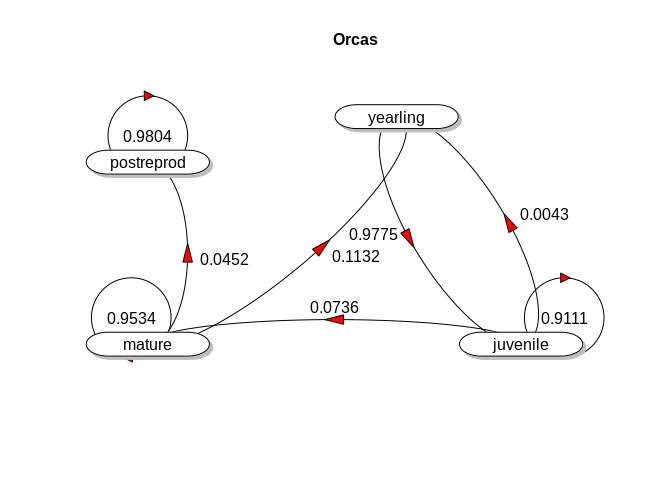
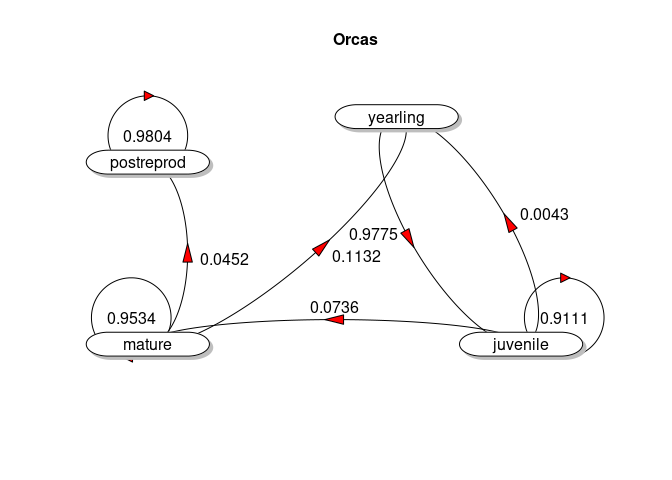
pander

diff --git a/stages.md b/stages.md
@@ -13,8 +13,8 @@ library(pander)
 
 Trabajamos con poblaciones en las que los individuos presentan
 características *a priori* contrastadas desde el punto de vista de la
-dinámica de la población, asociadas a su edad o estado fisiológico, ya
-sea por contribuir de forma diferencial a la reproducción o por
+dinámica de la población, asociadas a su edad o estado fisiológico; ya
+sea porque contribuyen de forma diferencial a la reproducción, o por
 presentar diferentes supervivencias. En líneas generales los modelos de
 poblaciones estructuradas los podemos representar mediante ciclos de
 vida:
@@ -22,8 +22,8 @@ vida:
 ![](stages_files/figure-markdown_github/life_cycle_stage.png)
 
 Ese esquema genérico muestra una población modelada a partir de 4 tipos
-de individuos agrupados en clases de edad o estadios. Las
-flechas indican las transiciones posibles entre clases o estadios. A ese
+de individuos, agrupados en clases de edad o estadios. Las flechas
+indican transiciones posibles entre dichas clases o estadios. A ese
 ciclo de vida le correspondería la visión numérica aportada por las
 matrices de transición:
 
@@ -31,12 +31,12 @@ matrices de transición:
 
 La primera fila de las matrices de transición, ya sean de edades (dcha.)
 o de estadios (izda.), muestra el *esquema de fecundidad*, expresada
-como promedio de individuos contribuidos al momento *t+1*, producidos
-por cada individuo presente en el momento *t*. El resto de valores
-distintos de cero en la matriz representan probabilidades de
-supervivencia entre *t* y *t+1*, ya sea *permaneciendo* en el mismo
-estadio, e.g. *P<sub>2</sub>* en la matriz de estadios, o *creciendo* al
-siguiente, e.g. *G<sub>3</sub>* en estadios o *S<sub>2</sub>* en edades.
+como promedio de individuos contribuidos al tiempo *t+1*, producidos por
+cada individuo presente en el tiempo *t*. El resto de valores distintos
+de cero en la matriz representan probabilidades de supervivencia entre
+*t* y *t+1*, ya sea *permaneciendo* en el mismo estadio,
+e.g. *P<sub>2</sub>* en la matriz de estadios, o *creciendo* al
+siguiente, e.g. *G<sub>3</sub>* en estadios o *S<sub>2</sub>* en edades.
 
 ### Matriz de proyección (estadios)
 
@@ -45,18 +45,15 @@ una población de orcas *Orcinus orca*. Los datos están incluidos en la
 librería `popbio` (Caswell 2001)<sup>1,2</sup>.
 
 El código a continuación carga en memoria los datos **whale**, y
-visualiza a continuación la matriz. la visualización incluye un pequeño
-truco estético: la función `pander()` rodeando al conjunto de datos
-devuelve una matriz con un formato más enriquecido útil especialmente
-para la producción de informes en pdf o html; es opcional:
+visualiza a continuación la matriz:
 
 ``` r
 data (whale)
-pander (whale)
+pander(whale)
 ```
 
-|                | yearling | juvenile | mature | postreprod |
-| :------------: | :------: | :------: | :----: | :--------: |
+|                | yearling | juvenile | mature | postreprod |
+|:--------------:|:--------:|:--------:|:------:|:----------:|
 |  **yearling**  |    0     |  0.0043  | 0.1132 |     0      |
 |  **juvenile**  |  0.9775  |  0.9111  |   0    |     0      |
 |   **mature**   |    0     |  0.0736  | 0.9534 |     0      |
@@ -75,7 +72,7 @@ haber alcanzado la menopausia. Algo más sorprendente será la pequeña
 proporción de individuos a priori juveniles que sí contribuyen; es el
 valor contenido en la celda \[1, 2\]. Los valores de las filas 2, 3 y 4
 representan probabilidades de supervivencia permaneciendo en el mismo
-estadio, e.g. `whale[2,2]`, o pasando al siguiente `whale[3,2]`. En
+estadio, e.g. `whale[2,2]`, o pasando al siguiente `whale[3,2]`. En
 general, las supervivencias son muy altas y la fecundidad baja, como
 corresponde a un predador apical.
 
@@ -92,11 +89,12 @@ transición.
 
 La función `plotmat()` tiene una aspecto algo intimidante al admitir
 muchos argumentos que modifican la estética del ciclo resultante; no
-todos son necesarios. El comando más simple `plotmat(whale)` pinta una
-versión muy mejorable del ciclo de las orcas, en la que algunos valores
-quedan superpuestos, y la disposición de los estadios no es buena. Por
-eso usamos el argumento `pos=` dentro de `plotmat()`para definir la
-posición de los estadios en un espacio XY<sup>4</sup> entre 0 y 1:
+todos son necesarios. El comando más simple `plotmat(whale)`, sin otros
+parámetros, pinta una versión muy mejorable del ciclo de las orcas:
+algunos valores quedan superpuestos, y la disposición de los estadios no
+es buena. Por eso usamos el argumento `pos=` dentro de `plotmat()` para
+definir la posición de los estadios en un espacio XY<sup>4</sup> entre 0
+y 1. Definimos y guardamos esas coordenadas previamente en **posit**:
 
 ``` r
 posit <- cbind (c(0.6, 0.9, 0, 0), c(1, 0, 0, 0.8))
@@ -124,53 +122,39 @@ Una vez comprendida la estructura del modelo, extraemos la información
 numérica contenida en la matriz de transición; es decir, aquella
 dependiente solo de la combinación de valores de supervivencia y
 fecundidad. La función que extrae buena parte de esa información
-determinista del modelo es `eigen.analysis()`. Como en el caso anterior,
-`pander()` es una mera opción estética. Los parámetros están explicados
-a continuación de la salida:
+determinista del modelo es `eigen.analysis()`:
 
 ``` r
-pander(eigen.analysis (whale))
+eigen.analysis (whale)
 ```
 
-  - **lambda1**: *1.025*
-
-  - **stable.stage**:
-    
-    | yearling | juvenile | mature | postreprod |
-    | :------: | :------: | :----: | :--------: |
-    | 0.03697  |  0.3161  | 0.3229 |   0.324    |
-    
-
-  - **sensitivities**:
-    
-    |                | yearling  | juvenile  |  mature   | postreprod |
-    | :------------: | :-------: | :-------: | :-------: | :--------: |
-    |  **yearling**  |  0.04221  |  0.3608   |  0.3686   |   0.3699   |
-    |  **juvenile**  |  0.04428  |  0.3785   |  0.3867   |   0.3881   |
-    |   **mature**   |  0.06632  |   0.567   |  0.5793   |   0.5813   |
-    | **postreprod** | 2.533e-17 | 2.166e-16 | 2.213e-16 |  2.22e-16  |
-    
-
-  - **elasticities**:
-    
-    |                | yearling | juvenile |  mature   | postreprod |
-    | :------------: | :------: | :------: | :-------: | :--------: |
-    |  **yearling**  |    0     | 0.001513 |  0.0407   |     0      |
-    |  **juvenile**  | 0.04221  |  0.3363  |     0     |     0      |
-    |   **mature**   |    0     |  0.0407  |  0.5386   |     0      |
-    | **postreprod** |    0     |    0     | 9.753e-18 | 2.123e-16  |
-    
-
-  - **repro.value**:
-    
-    | yearling | juvenile | mature | postreprod |
-    | :------: | :------: | :----: | :--------: |
-    |    1     |  1.049   | 1.571  | 6.002e-16  |
-    
-
-  - **damping.ratio**: *1.046*
-
-<!-- end of list -->
+    ## $lambda1
+    ## [1] 1.025441
+    ## 
+    ## $stable.stage
+    ##   yearling   juvenile     mature postreprod 
+    ## 0.03697187 0.31607121 0.32290968 0.32404724 
+    ## 
+    ## $sensitivities
+    ##                yearling     juvenile       mature   postreprod
+    ## yearling   4.220825e-02 3.608369e-01 3.686439e-01 3.699426e-01
+    ## juvenile   4.427835e-02 3.785341e-01 3.867240e-01 3.880864e-01
+    ## mature     6.632269e-02 5.669904e-01 5.792577e-01 5.812983e-01
+    ## postreprod 2.533397e-17 2.165792e-16 2.212651e-16 2.220446e-16
+    ## 
+    ## $elasticities
+    ##              yearling    juvenile       mature   postreprod
+    ## yearling   0.00000000 0.001513103 4.069515e-02 0.000000e+00
+    ## juvenile   0.04220825 0.336325827 0.000000e+00 0.000000e+00
+    ## mature     0.00000000 0.040695151 5.385625e-01 0.000000e+00
+    ## postreprod 0.00000000 0.000000000 9.753053e-18 2.122916e-16
+    ## 
+    ## $repro.value
+    ##     yearling     juvenile       mature   postreprod 
+    ## 1.000000e+00 1.049045e+00 1.571320e+00 6.002137e-16 
+    ## 
+    ## $damping.ratio
+    ## [1] 1.04594
 
 **lambda1** muestra el valor de la tasa de crecimiento determinista. En
 matemáticas corresponde con el *valor propio* de la matriz, *eigenvalue*
@@ -213,18 +197,18 @@ Para llevar a cabo dicha proyección necesitamos saber o simular cuántos
 individuos hay en cada estadio en t<sub>0</sub>.
 
 El código a continuación define y almacena ese N<sub>0</sub> como
-**n0\_whale\_1**, con 10 individuos en cada uno de los 4 estadios. A
+**n0_whale_1**, con 10 individuos en cada uno de los 4 estadios. A
 continuación `pop.projection()` proyecta ese N<sub>0</sub> 50 intervalos
 de tiempo (N<sub>50</sub>) con los parámetros de la matriz de transición
-o proyección `whale`. Almacena los resultados en **whale\_nt\_1**:
+o proyección `whale`. Almacena los resultados en **whale_nt_1**:
 
 ``` r
 n0_whale_1 <- c(10,10,10,10)
 whale_nt_1 <- pop.projection (whale, n0_whale_1, 50)
 ```
 
-`stage.vector.plot` usa los resultados de **whale\_nt\_1** para dibujar
-el cambio de las proporciones de los estadios entre t<sub>0</sub> y
+`stage.vector.plot` usa los resultados de **whale_nt_1** para dibujar el
+cambio de las proporciones de los estadios entre t<sub>0</sub> y
 t<sub>50</sub>:
 
 ``` r
@@ -251,7 +235,7 @@ stage.vector.plot (whale_nt_2$stage.vectors, ylim = c(0, 0.6))
 ![](stages_files/figure-gfm/unnamed-chunk-8-1.png)<!-- -->
 
 La convergencia a la distribución estable de estadios es más rápida ante
-la distribución de abundancias de **n0\_whale\_1**. Una interpretación
+la distribución de abundancias de **n0_whale_1**. Una interpretación
 posible es que esa distribución inicial corresponde a una población en
 mejor estado, dado el modelo contenido en la matriz de transición
 `whale`, que tiene una tasa de crecimiento lambda = 1.025, ligeramente
@@ -261,8 +245,8 @@ positiva.
 
 Para abrir los enlaces en otra pestaña, *botón derecho + abrir en nueva
 pestaña*, o *Ctrl click*)  
-1\. Caswell, H. 2001. Matrix population models: construction, analysis,
-and interpretation; 2nd ed. Sinauer
+1. Caswell, H. 2001. Matrix population models: construction, analysis,
+and interpretation; 2nd ed. Sinauer
 
 2.  Este otro ejercicio corto incluye instrucciones para introducir
     datos matriciales: *Ctrl. + click*
@@ -275,8 +259,8 @@ and interpretation; 2nd ed. Sinauer
     dos columnas, con las posiciones XY de los estadios. Así la primera
     fila (0.6,1) corresponde en el caso de las orcas a la posición de
     *yearling*. El resto de argumentos en la función `plotmat()` retocan
-    aspectos estéticos, como el color de las flechas `arr.col =
-    "green"`.
+    aspectos estéticos, como el color de las flechas
+    `arr.col = "green"`.
 
 5.  O no; ver el ciclo de vida de *Arisaema triphyllum*,
     Jack-in-the-pulpit
